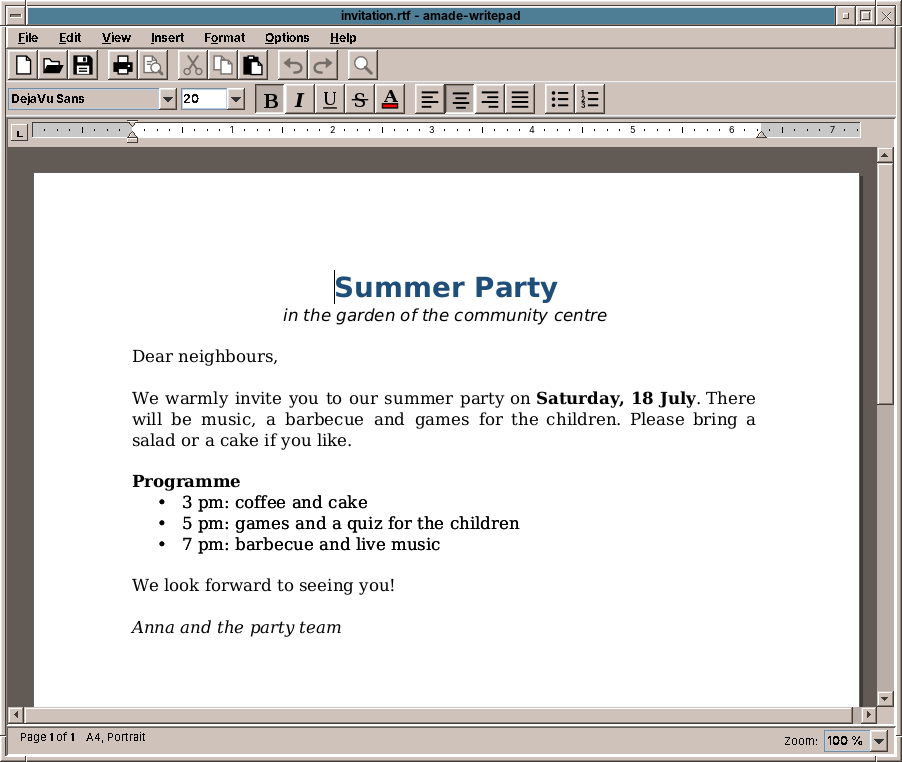
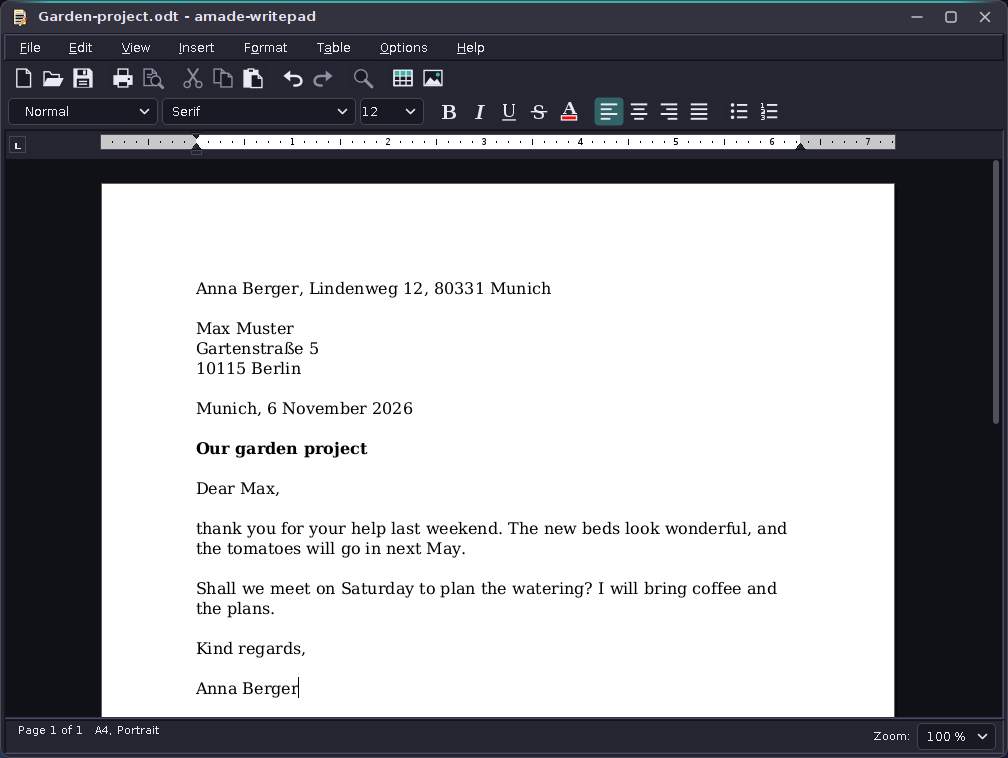
docs(readme): show the Horizon look in the screenshots
The screenshots in docs/screenshots (used by the README and the AppStream
metainfo) showed the classic CDE look. They are replaced by shots in the
Horizon look, Dark scheme; a README without a picture gets one.

Claude-Session: https://claude.ai/code/session_017Pd6NcKy4y87wY8jkALjpZ

diff --git a/README.md b/README.md
@@ -5,6 +5,8 @@
 ![License](https://img.shields.io/badge/license-EUPL--1.2-blue)
 ![Java](https://img.shields.io/badge/Java-25-orange)
 
+![WritePad](docs/screenshots/amade-writepad.png)
+
 ## Goals
 
 - Character and paragraph formatting, bullet and numbered lists, tab stops on a ruler, images, header and footer
